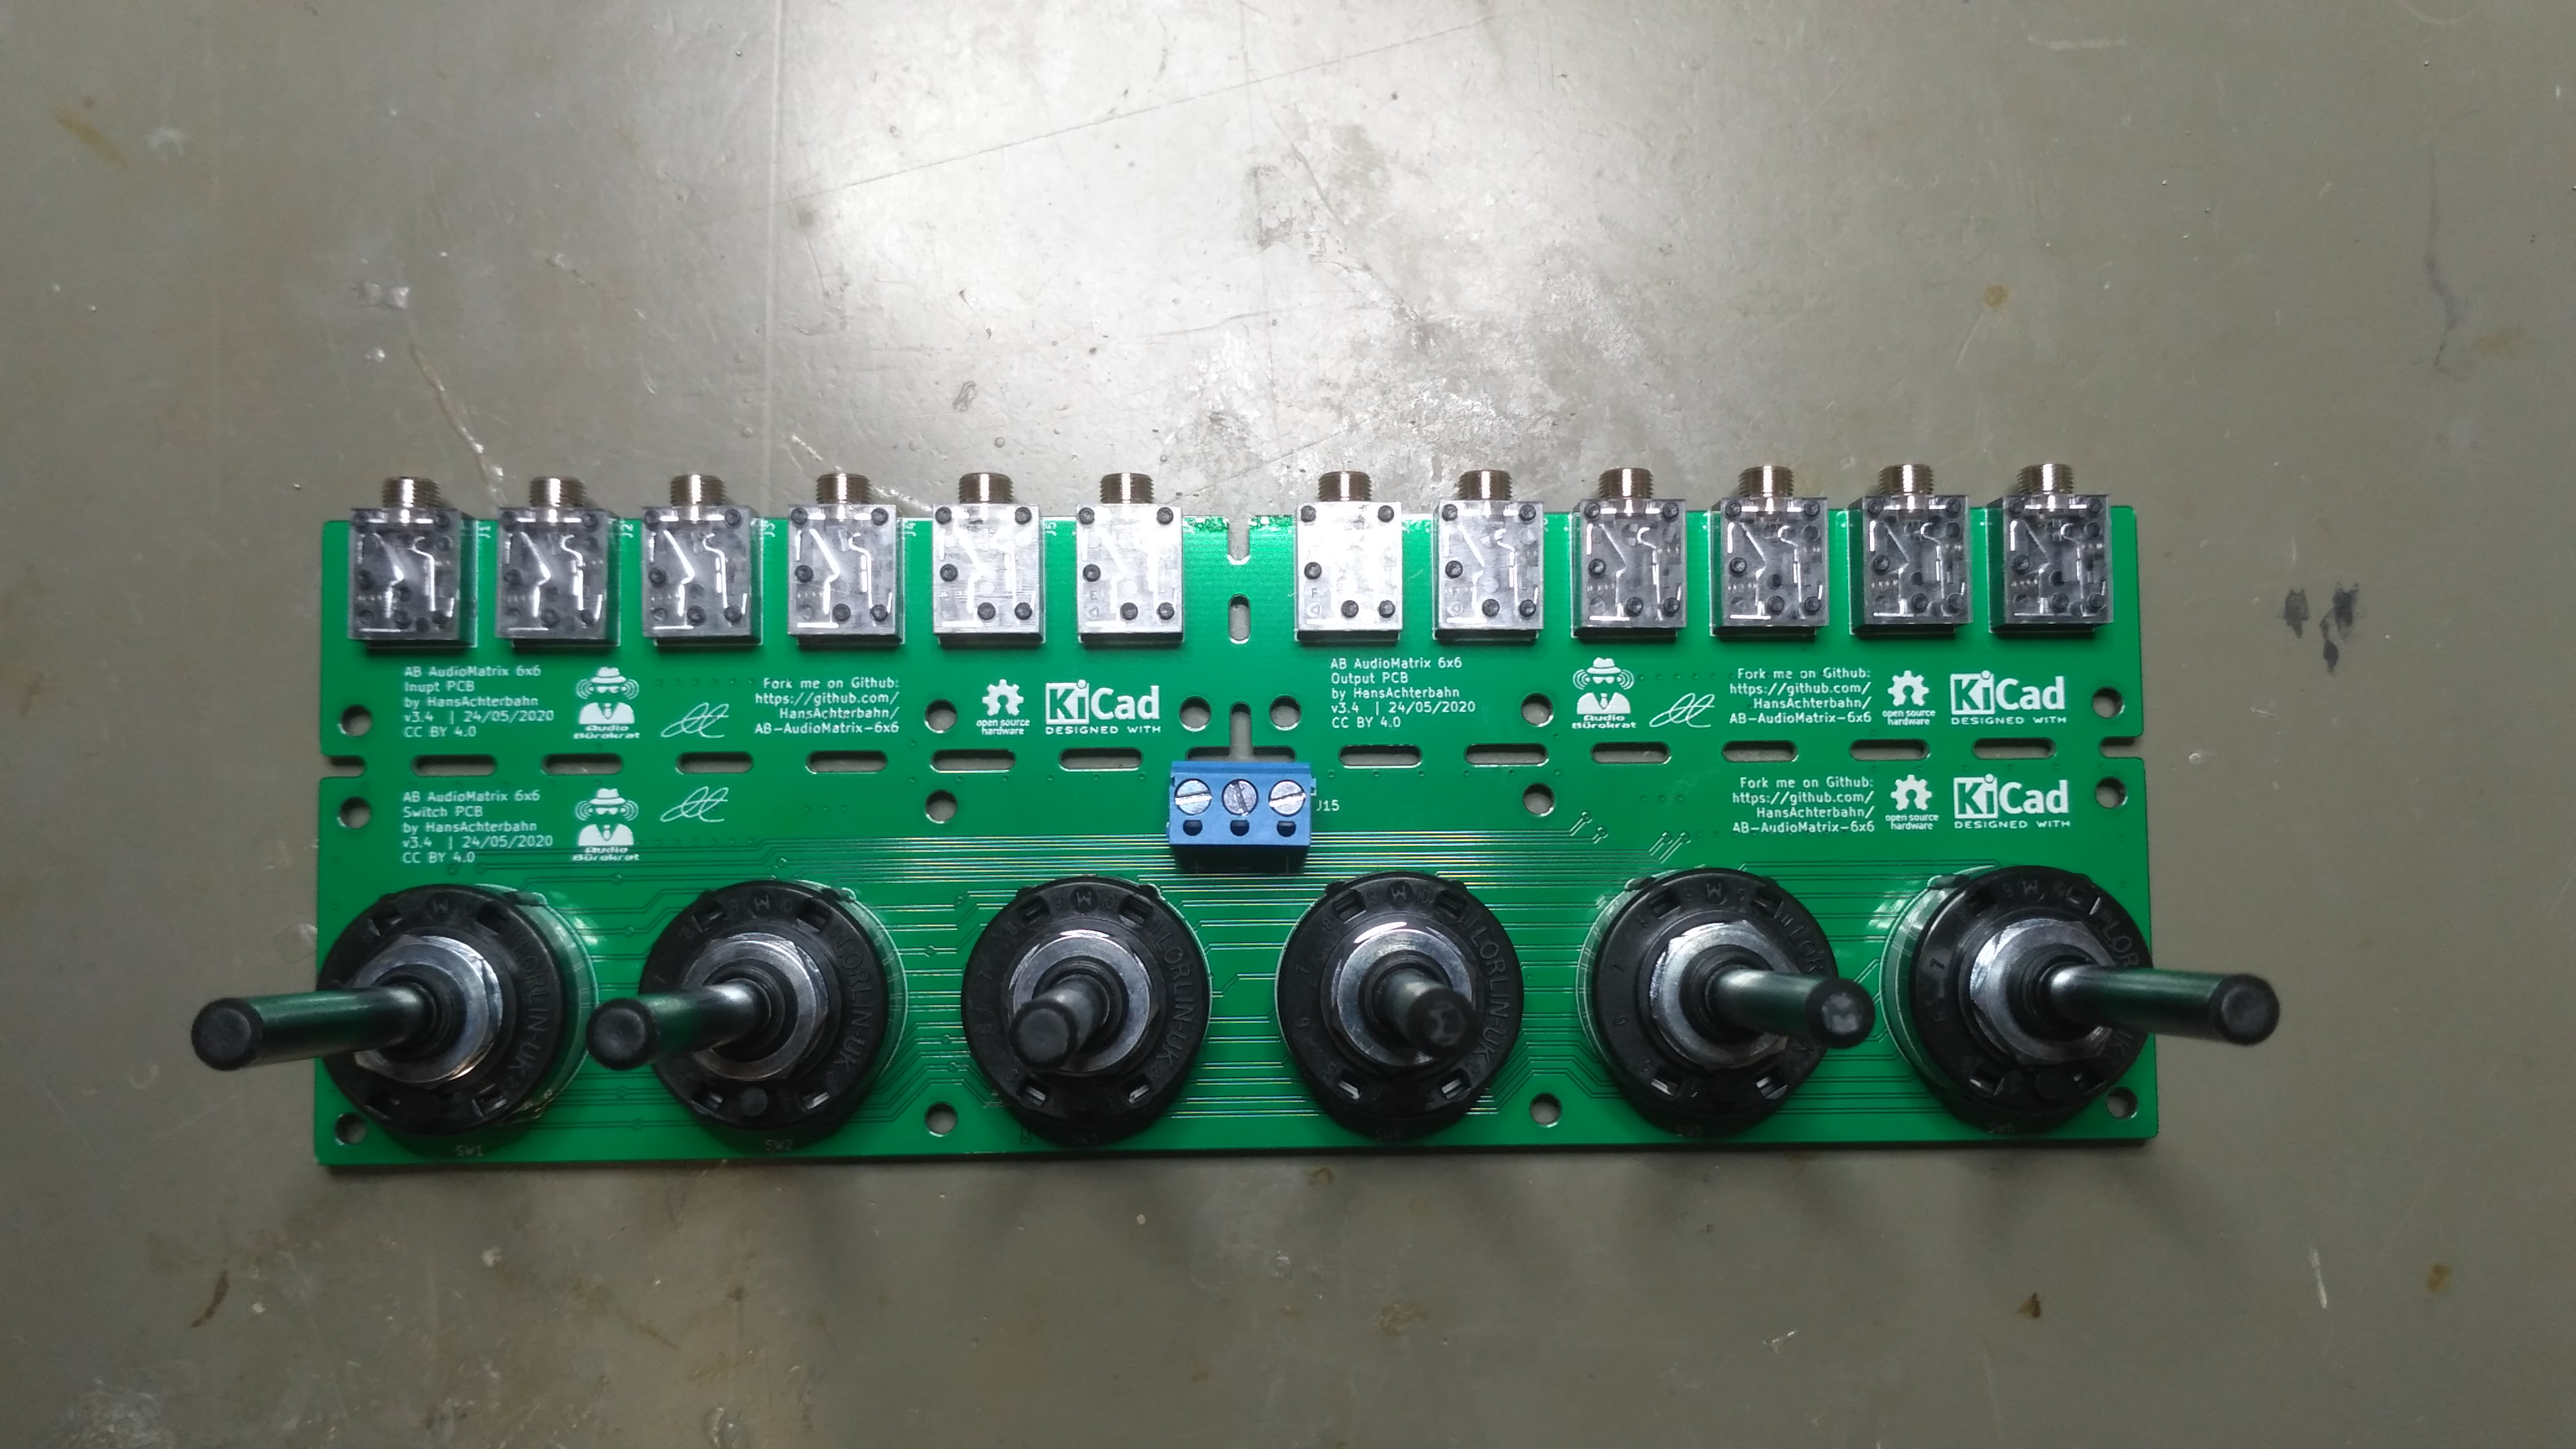
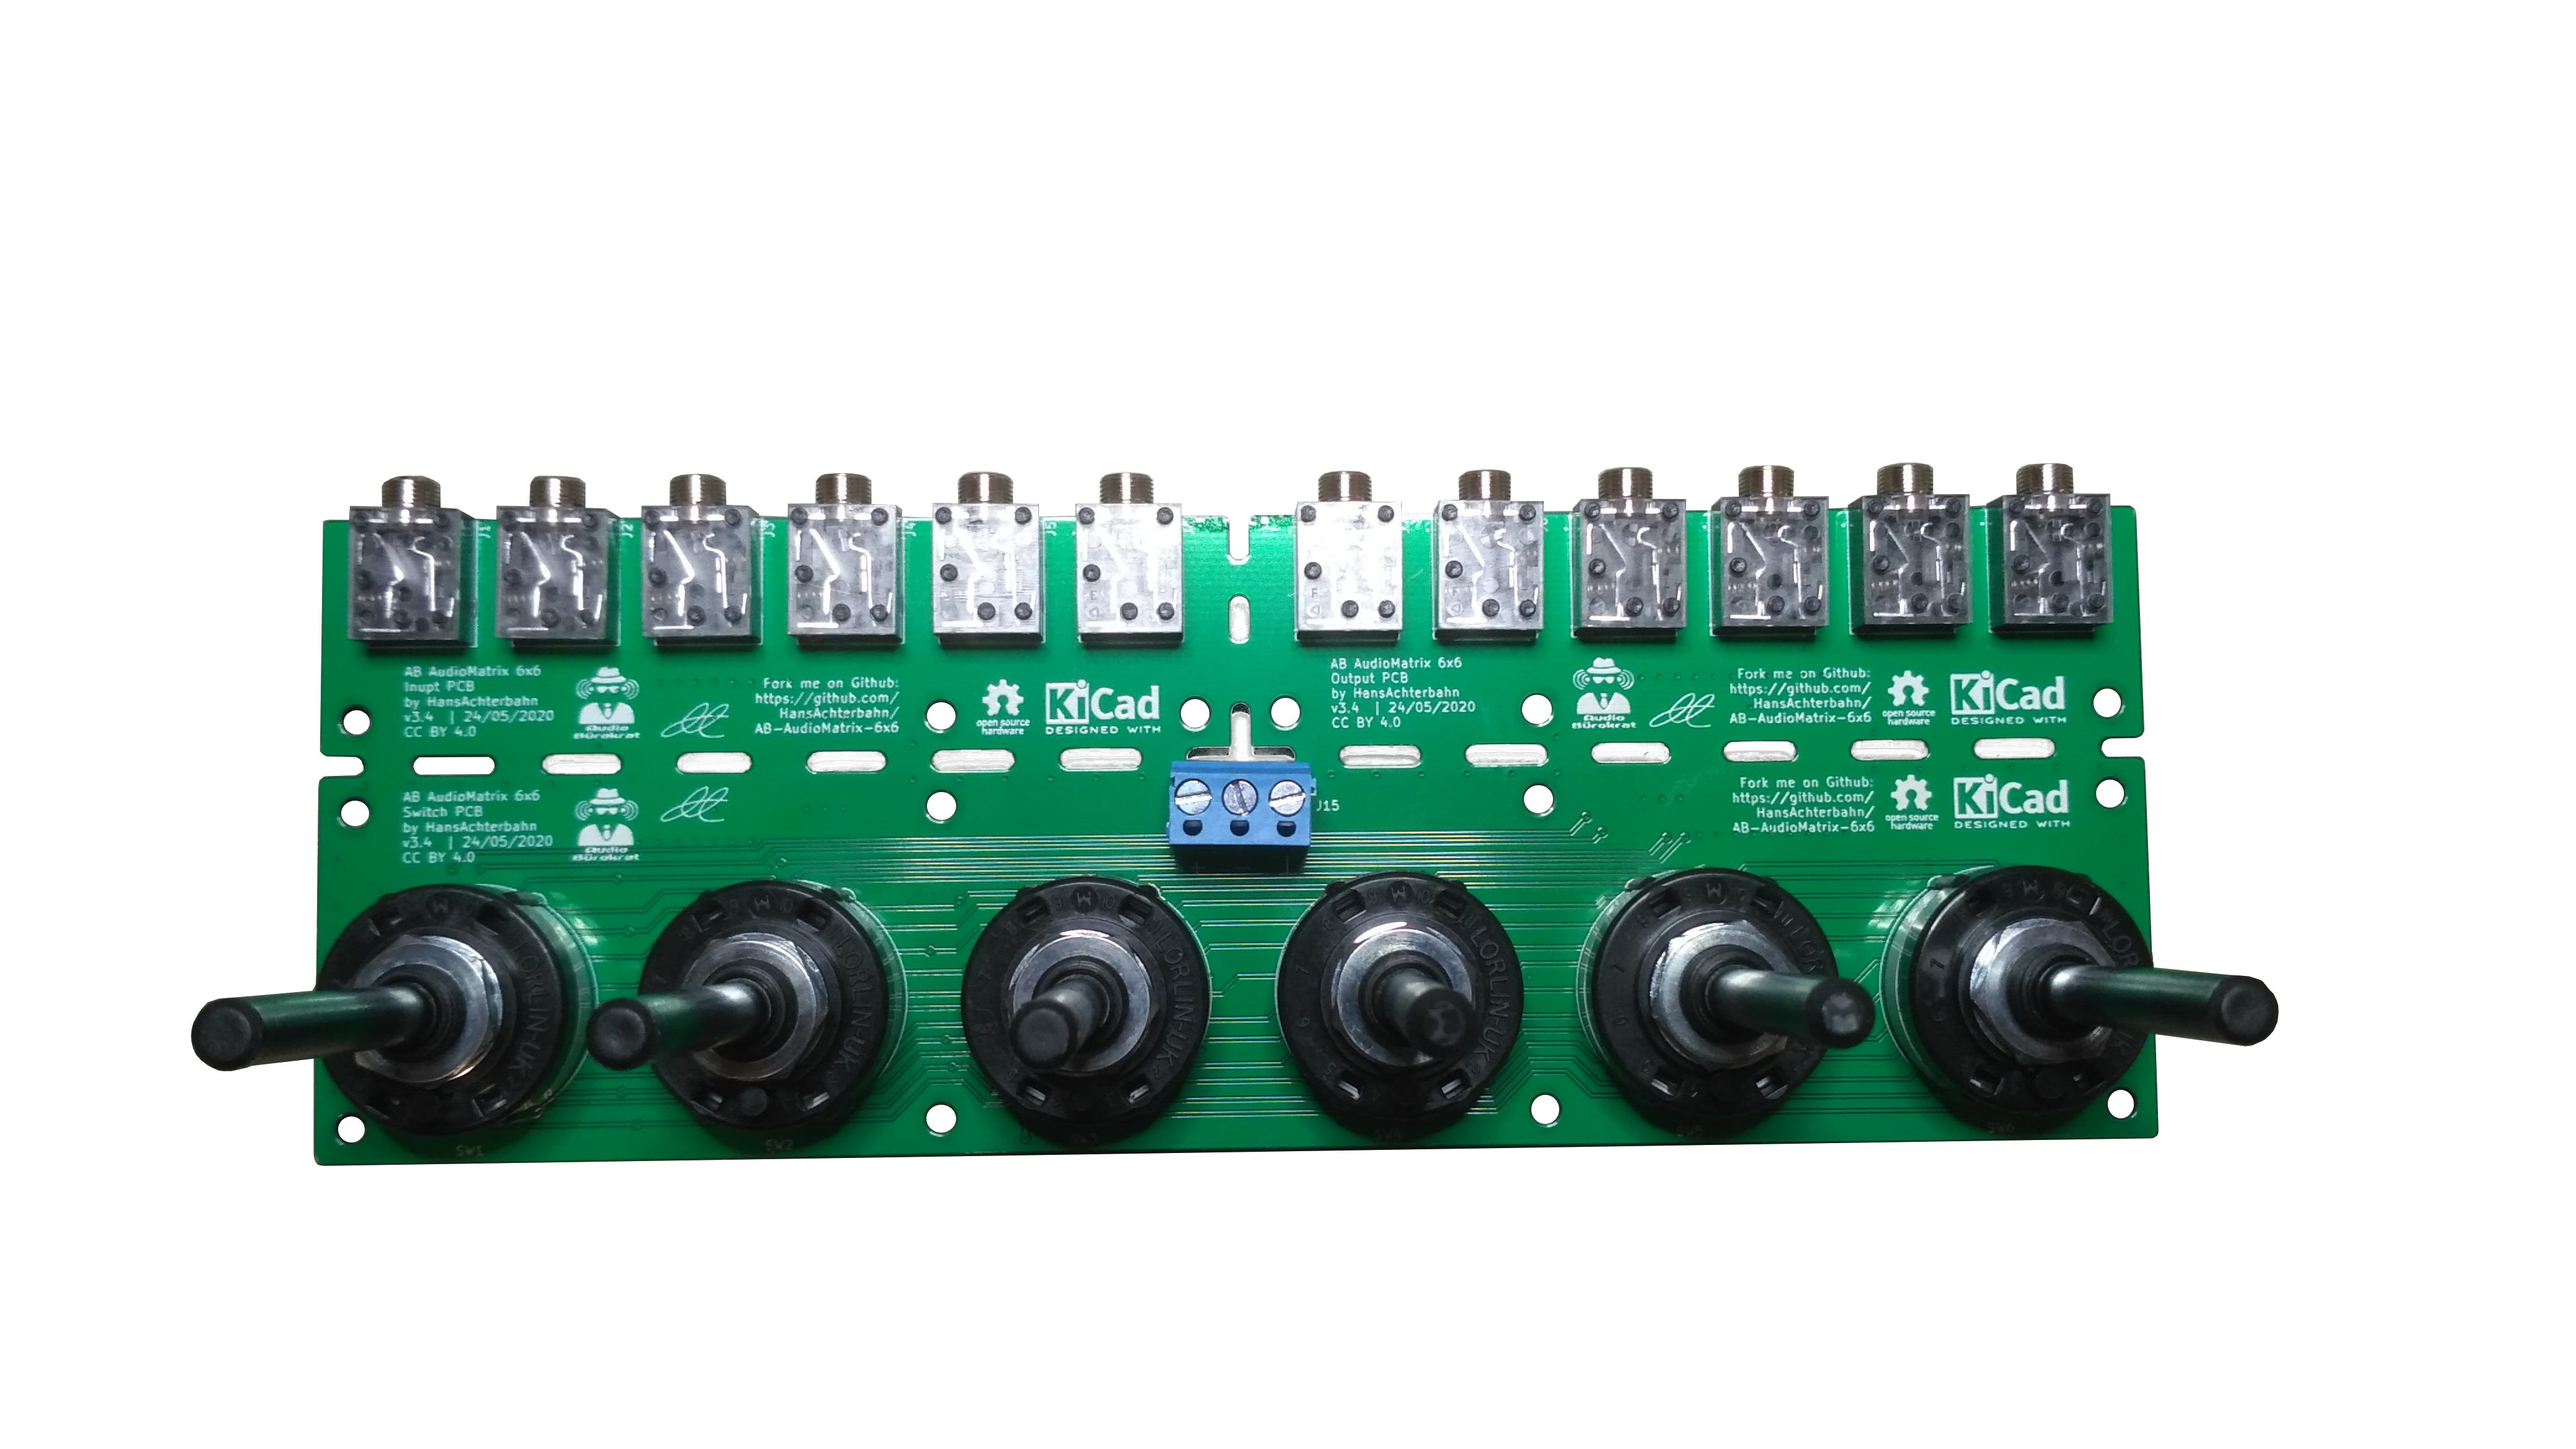
README.md: Added pics of mounted device | pics exposed from surroundings | small optimizations

diff --git a/README.md b/README.md
@@ -1,14 +1,14 @@
 # AB AudioMatrix 6×6
 
-Active audio matrix (6×6), which can map 6 input channels to 6 output channels. Connection via 3.5 jack cable. Compatible with line signals (aux, headphones, active speakers, ...).
+Active audio matrix (6×6), that can map 6 input channels (1-6) to 6 output channels (A-F). Connection via 3.5 jack cable. Compatible with line signals, aux, headphones and active speakers. Each output channel can map one input channel at a time.
 
 *Fork me and have fun!*
 
-## Content and Structure
+## 1 Content and Structure
 
 | File / Folder                 | Abbreviation     | Description                                                                             |
 | ----------------------------- | ---------------- | --------------------------------------------------------------------------------------- |
-| /3d/                          | 3D modells       | Files to work with in a 3D CAD program                                                  |
+| /3d/                          | 3D models        | Files to work with in a 3D CAD program                                                  |
 | /bom/                         | Bill of Material | Files with needed components and corresponding order number from different distributors |
 | /case/                        | Case for PCB     | Files with an example case for the PCBs                                                 |
 | /doc/                         | Documentation    | Files needed in README.md to document the repository                                    |
@@ -21,14 +21,30 @@ Active audio matrix (6×6), which can map 6 input channels to 6 output channels.
 | /README.md                    | —                | Markdown file with the documentation you are reading now                                |
 
 
-## Power Supply Modes
+## 2 Power Supply Modes
 
 | Mode       | +             | —             | ⊥   | Jumper JP1 | U7, R25, R26  | Info                                                              |
 | ---------- | ------------- | ------------- | --- | ---------- | ------------- | ----------------------------------------------------------------- |
 | Symmetric  | +2.5 to +15 V | -2.5 to -15 V | 0V  | Open       | not necessary | Highly recommended for good Sound and clearly separated channels  |
 | Asymmetric | +5 to +30 V   | 0 V           | --- | Closed     | necessary     | Possible, but not recommended; Channels are not clearly separated |
 
-## Pictures
+## 3 Pictures
+
+### 3.1 Mounted device
+
+![Front view](doc/MountedDevice-FrontView.jpg)
+Front view
+
+![Rear view](doc/MountedDevice-RearView.jpg)
+Rear view
+
+![Bottom view](doc/MountedDevice-BottomView.jpg)
+Bottom view
+
+
+
+
+### 3.2 Board
 
 ![Top view](doc/PicTopView.jpg)
 Top view
@@ -38,24 +54,25 @@ Rear view
 
 ![Front view](doc/PicFrontView.jpg)
 
-## 3D View
+<!--
+## 4 CAD Data
 
 ![Top view](doc/3d-TopView.png)
 Top view
 
-<!--
-![Rear view ](doc/3d-FrontView.png)
+
+![Front view ](doc/3d-FrontView.png)
 Front view
--->
+
 
 ![Rear view](doc/3d-RearView.png)
 Rear view
 
 ![Bottom view](doc/3d-BottomView.png)
 Bottom view
+-->
 
-
-## Schematic
+## 4 Schematic
 
 ![Sheet 1: Root / Overview Page](doc/Schematic-1-Master.png)
 Sheet 1: Root / Overview Page
@@ -66,13 +83,13 @@ Sheet 2: Switches and OPAs
 ![Sheet 3: Audio Input and Output](doc/Schematic-3-InputOutput.png)
 Sheet 3: Audio Input and Output
 
-## Board Layout
+## 5 Board Layout
 
 ![PCB / Board layout](doc/Board.png)
 PCB / Board layout
 
 
-## License
+## 6 License
 
 <p xmlns:dct="http://purl.org/dc/terms/" xmlns:cc="http://creativecommons.org/ns#" class="license-text"><a rel="cc:attributionURL" href="https://github.com/HansAchterbahn/AB-AudioMatrix-6x6"><span rel="dct:title">AB AudioMatrix 6×6</span></a> by <a rel="cc:attributionURL" href="https://github.com/HansAchterbahn/"><span rel="cc:attributionName">Hans Achterbahn </span></a>CC BY 4.0 <a href="https://creativecommons.org/licenses/by/4.0"><img style="height:22px!important;margin-left: 3px;vertical-align:text-bottom;" src="https://search.creativecommons.org/static/img/cc_icon.svg" /><img  style="height:22px!important;margin-left: 3px;vertical-align:text-bottom;" src="https://search.creativecommons.org/static/img/cc-by_icon.svg" /></a></p>
 
